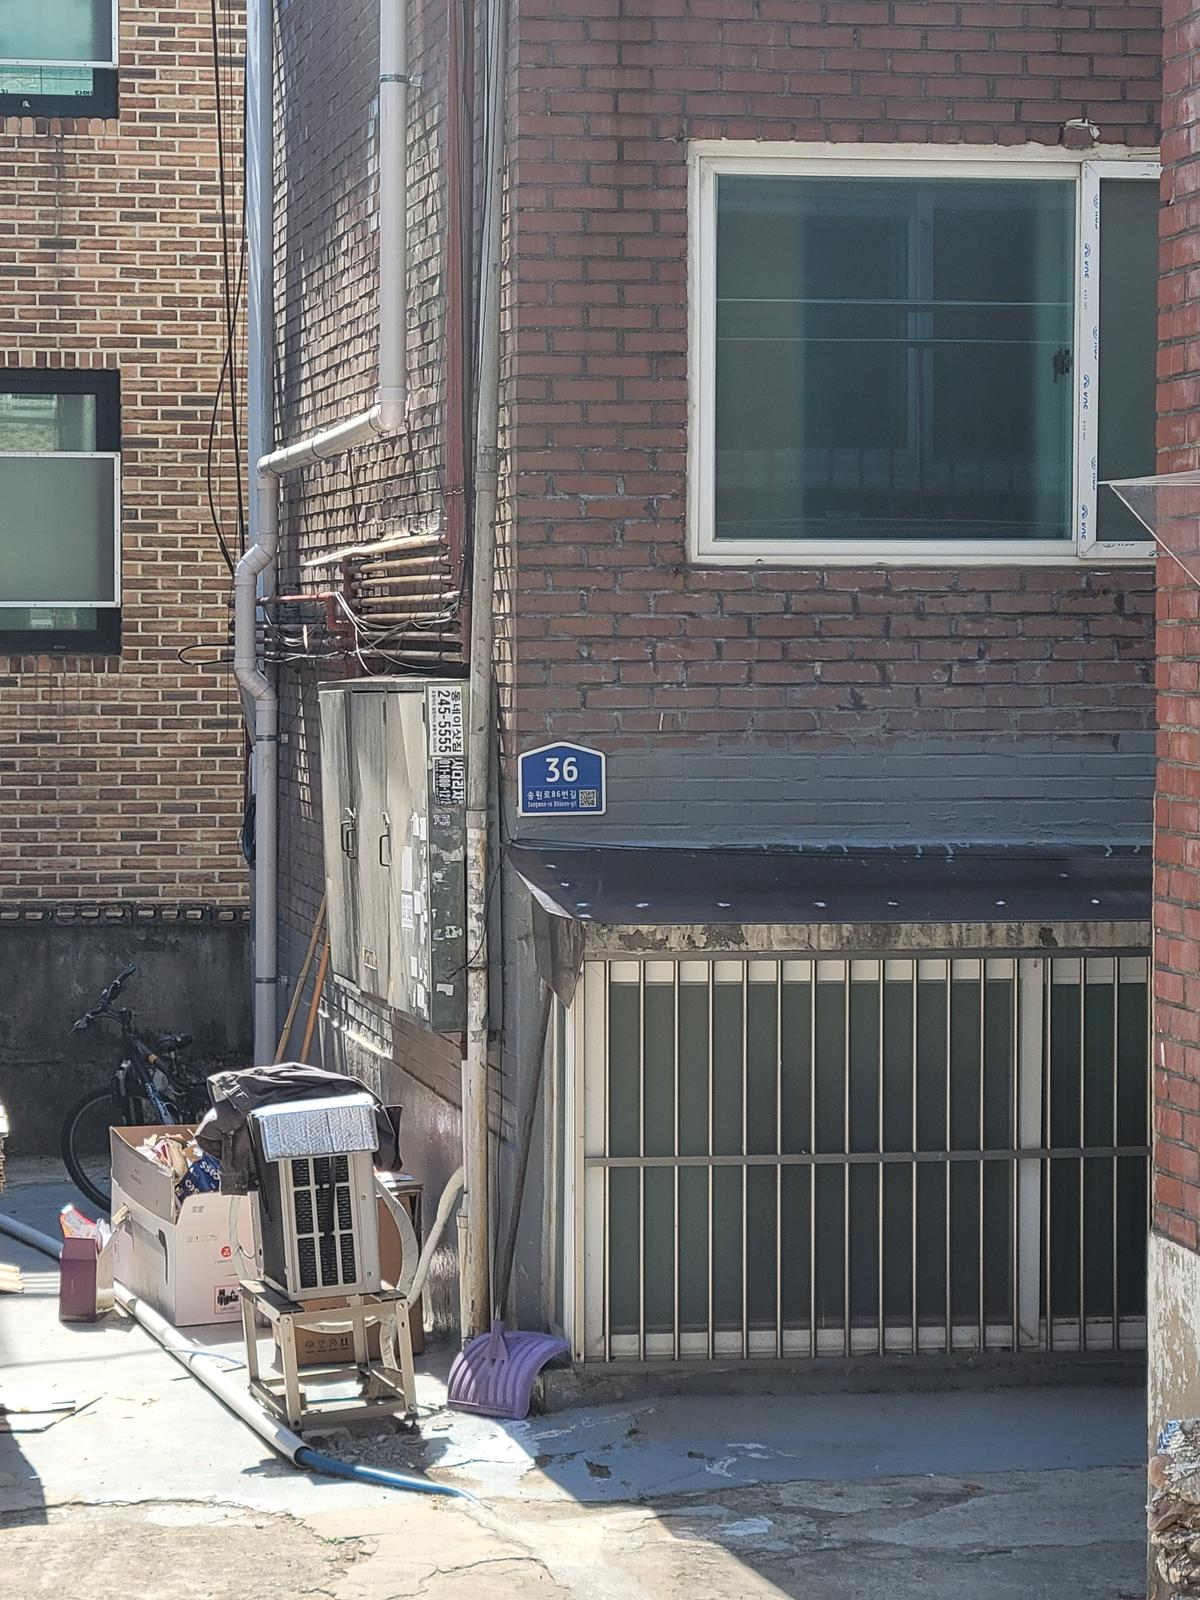
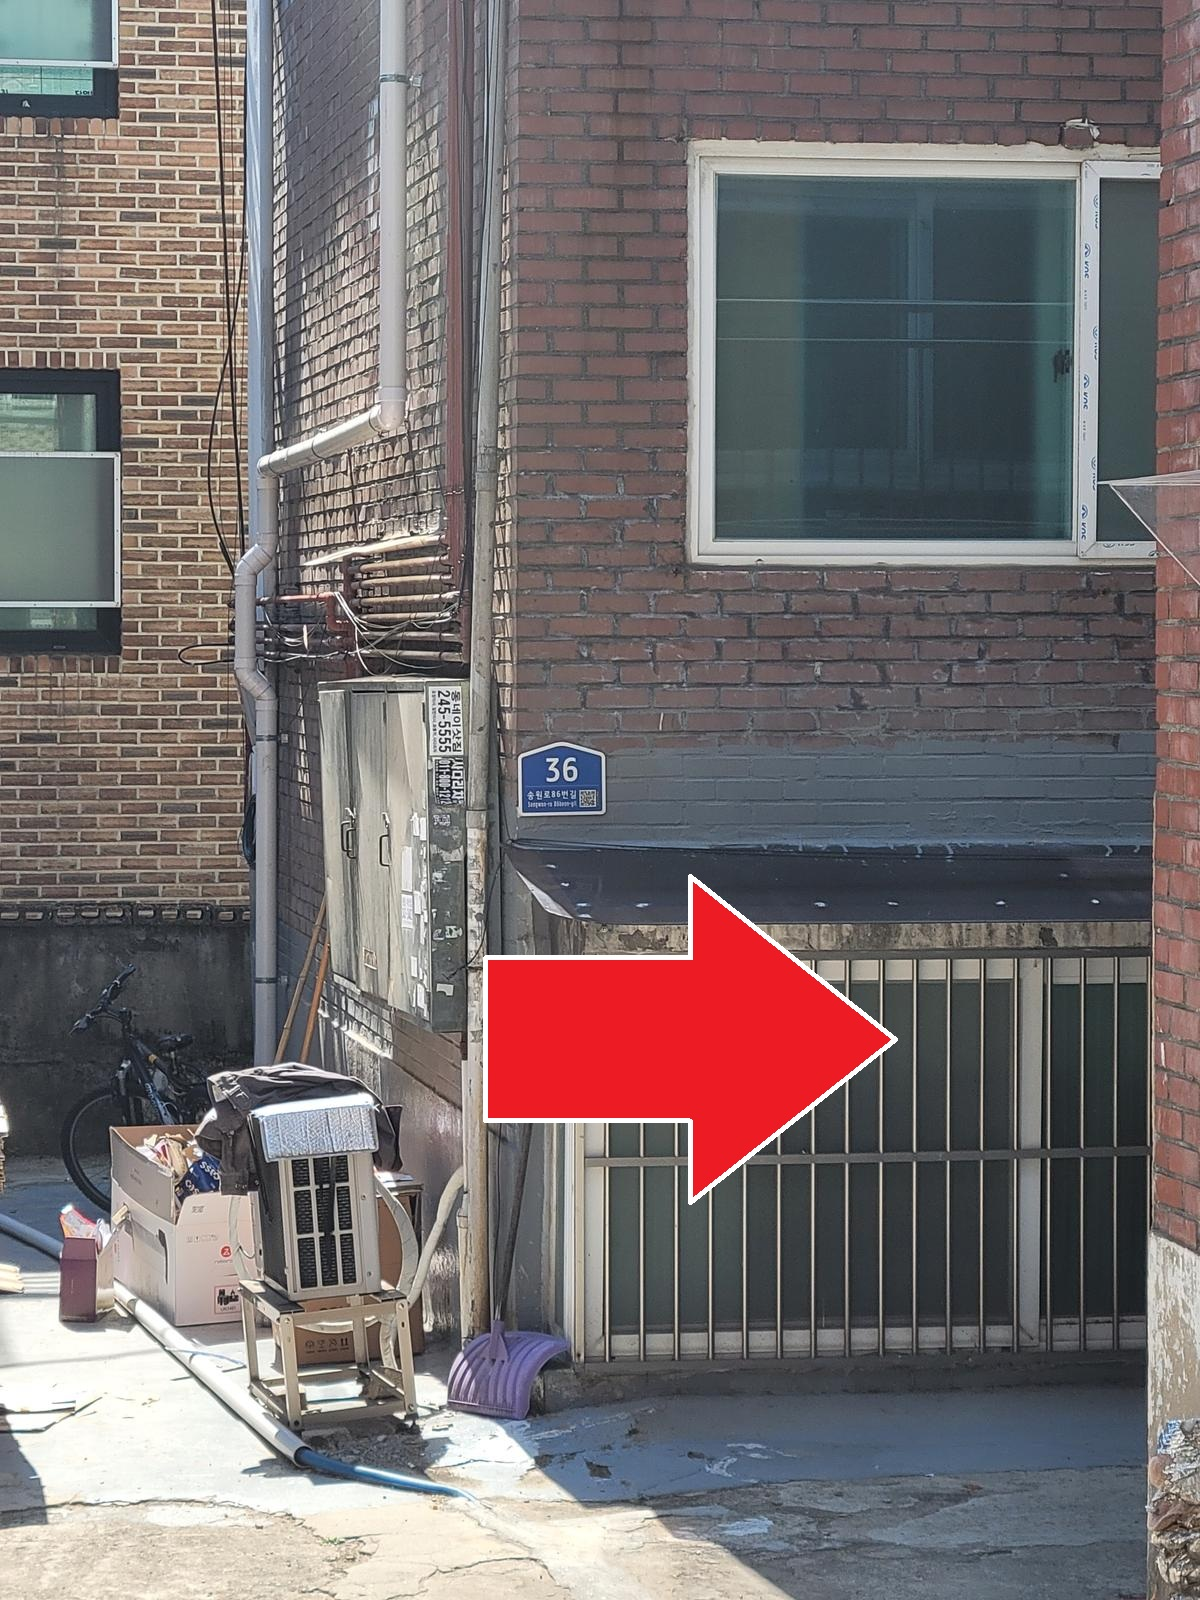
fix: 길안내 사진 강조 표시 추가 및 캐시 버스팅 적용

Changed region(s): [[0.4008, 0.5312, 0.74, 0.75]]

diff --git a/script.js b/script.js
@@ -444,10 +444,10 @@ function updateParkingMarkers() {
 // ===== Slide Modal =====
 const SLIDE_DATA = {
   direction: [
-    { src: './assets/img/direction/01_building_exterior.jpg', type: 'image', caption: { ko: '골목에서 보이는 건물 모습입니다', en: 'Building view from the alley', ja: '路地から見える建物の様子です', zh: '从巷子里看到的建筑外观' } },
-    { src: './assets/img/direction/02_building_entrance.jpg', type: 'image', caption: { ko: '36번 주소판이 있는 입구입니다', en: 'Entrance with address number 36', ja: '36番の住所プレートがある入口です', zh: '有36号地址牌的入口' } },
-    { src: './assets/img/direction/03_address_sign.jpg', type: 'image', caption: { ko: '도로명 주소 안내판을 확인하세요', en: 'Check the street address sign', ja: '道路名住所の案内板を確認してください', zh: '请确认路名地址指示牌' } },
-    { src: './assets/img/direction/04_stairs_entrance.jpg', type: 'image', caption: { ko: '계단을 따라 지하로 내려가세요', en: 'Go down the stairs to the basement', ja: '階段に沿って地下へ降りてください', zh: '沿楼梯下到地下' } },
+    { src: './assets/img/direction/01_building_exterior.jpg?v=2', type: 'image', caption: { ko: '골목에서 보이는 건물 모습입니다', en: 'Building view from the alley', ja: '路地から見える建物の様子です', zh: '从巷子里看到的建筑外观' } },
+    { src: './assets/img/direction/02_building_entrance.jpg?v=2', type: 'image', caption: { ko: '36번 주소판이 있는 입구입니다', en: 'Entrance with address number 36', ja: '36番の住所プレートがある入口です', zh: '有36号地址牌的入口' } },
+    { src: './assets/img/direction/03_address_sign.jpg?v=2', type: 'image', caption: { ko: '도로명 주소 안내판을 확인하세요', en: 'Check the street address sign', ja: '道路名住所の案内板を確認してください', zh: '请确认路名地址指示牌' } },
+    { src: './assets/img/direction/04_stairs_entrance.jpg?v=2', type: 'image', caption: { ko: '계단을 따라 지하로 내려가세요', en: 'Go down the stairs to the basement', ja: '階段に沿って地下へ降りてください', zh: '沿楼梯下到地下' } },
     { src: './assets/img/direction/05_room_b102_sign.jpg', type: 'image', caption: { ko: '벽에 B102 표시를 확인하세요', en: 'Look for the B102 sign on the wall', ja: '壁のB102表示を確認してください', zh: '请确认墙上的B102标识' } },
     { src: './assets/img/direction/06_front_door.jpg', type: 'image', caption: { ko: 'WELCOME 매트가 있는 현관문입니다', en: 'Front door with WELCOME mat', ja: 'WELCOMEマットのある玄関ドアです', zh: '有WELCOME地垫的大门' } },
   ],
